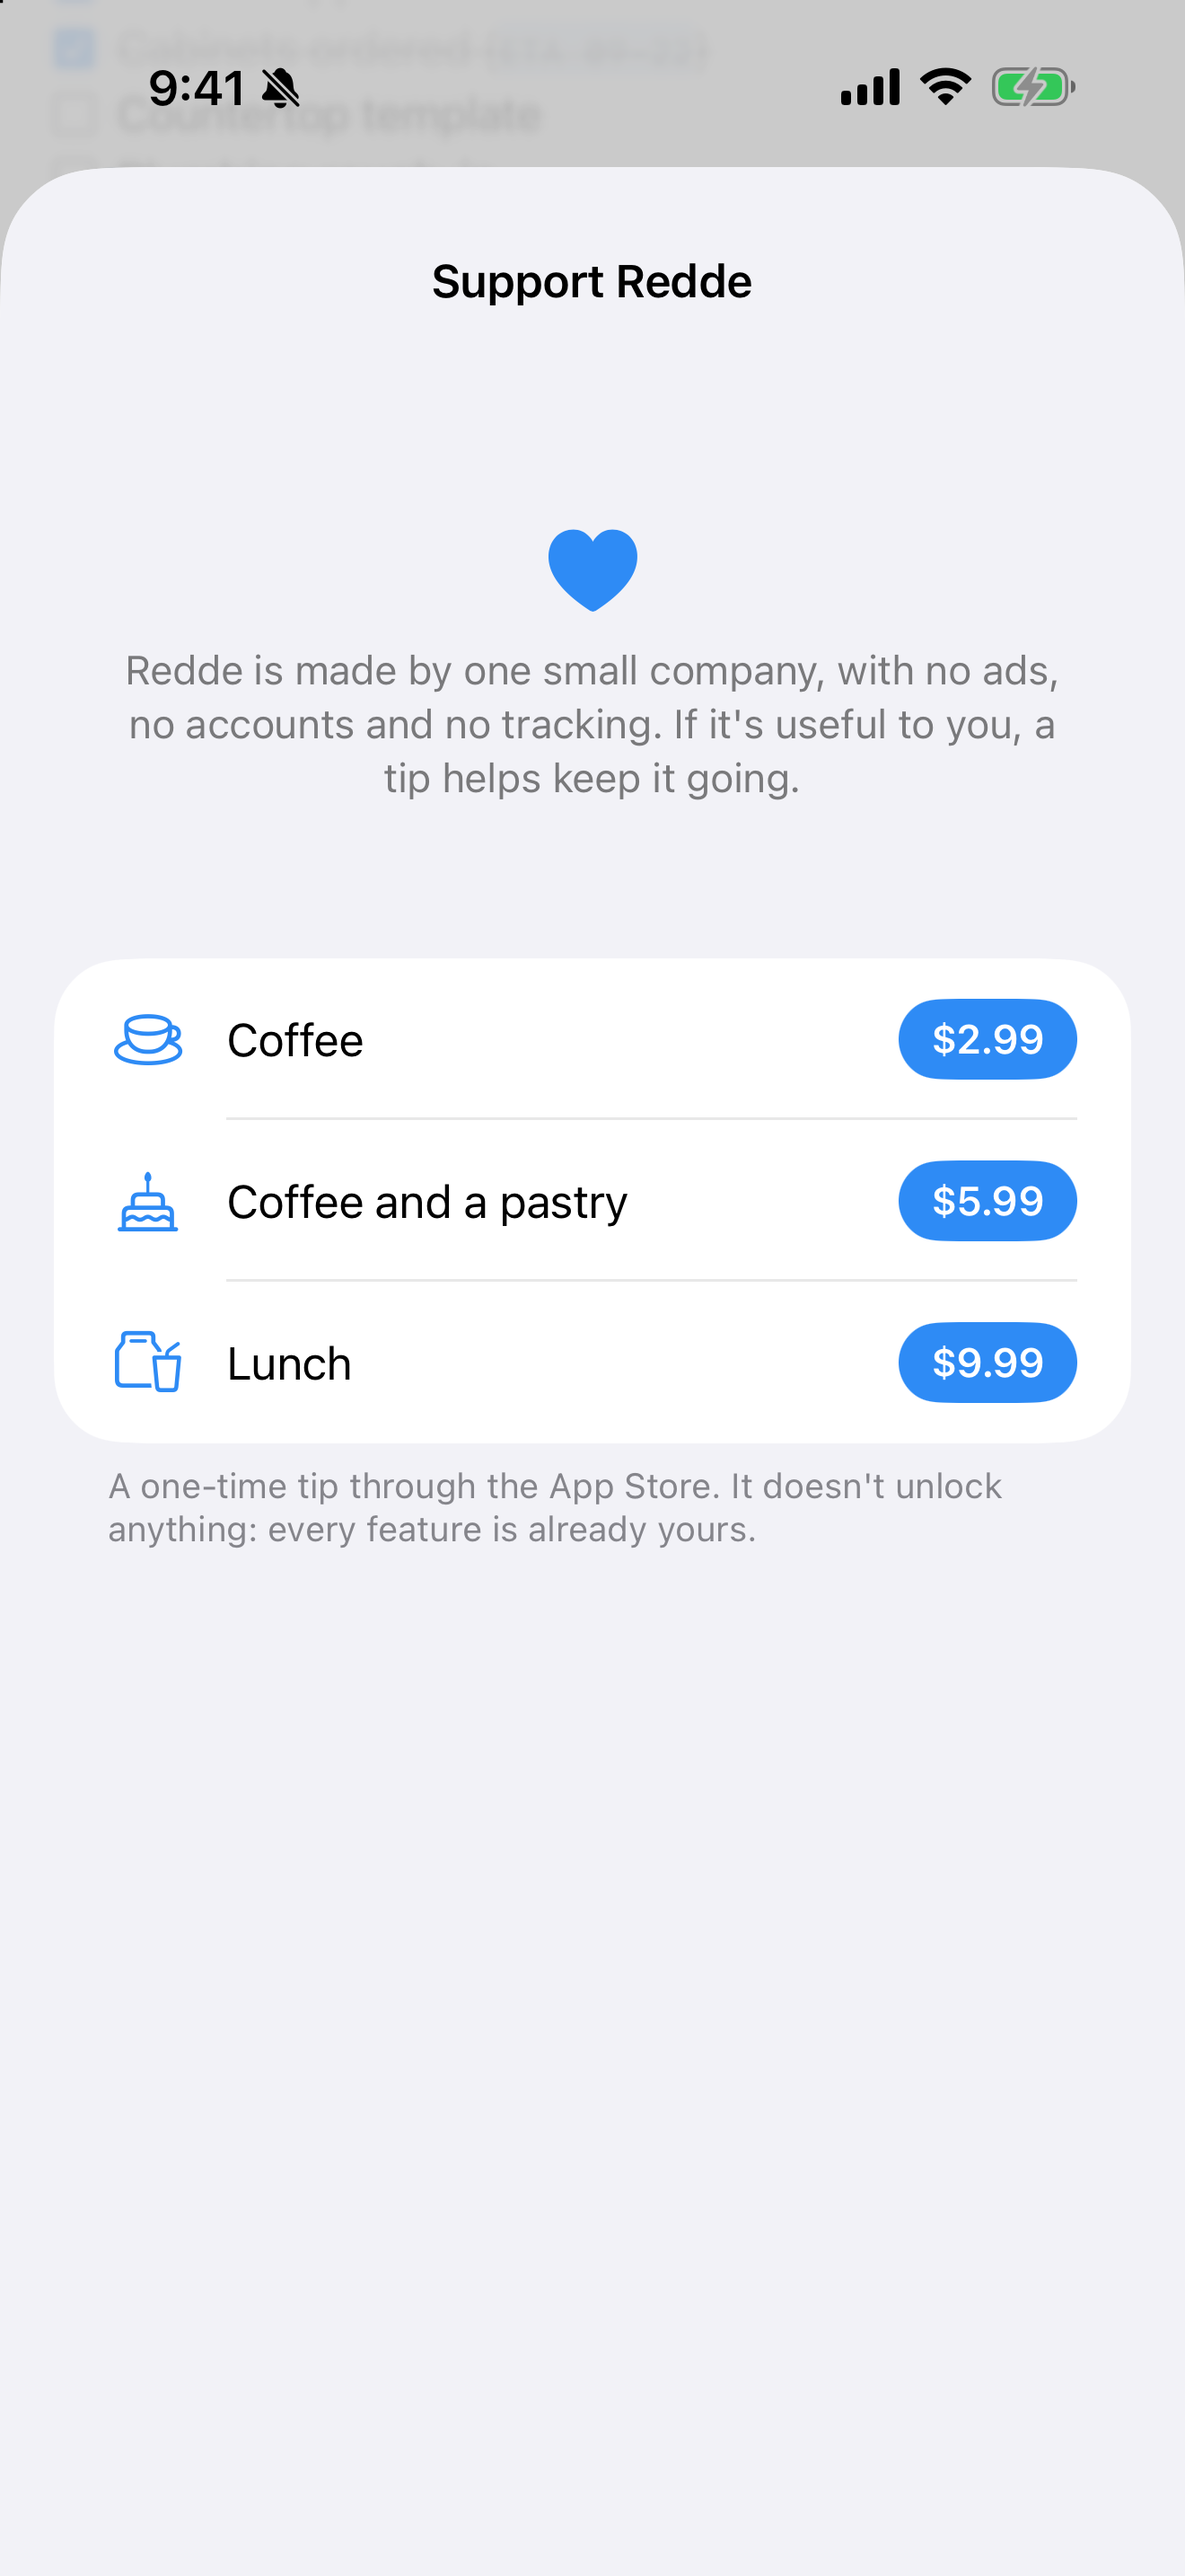
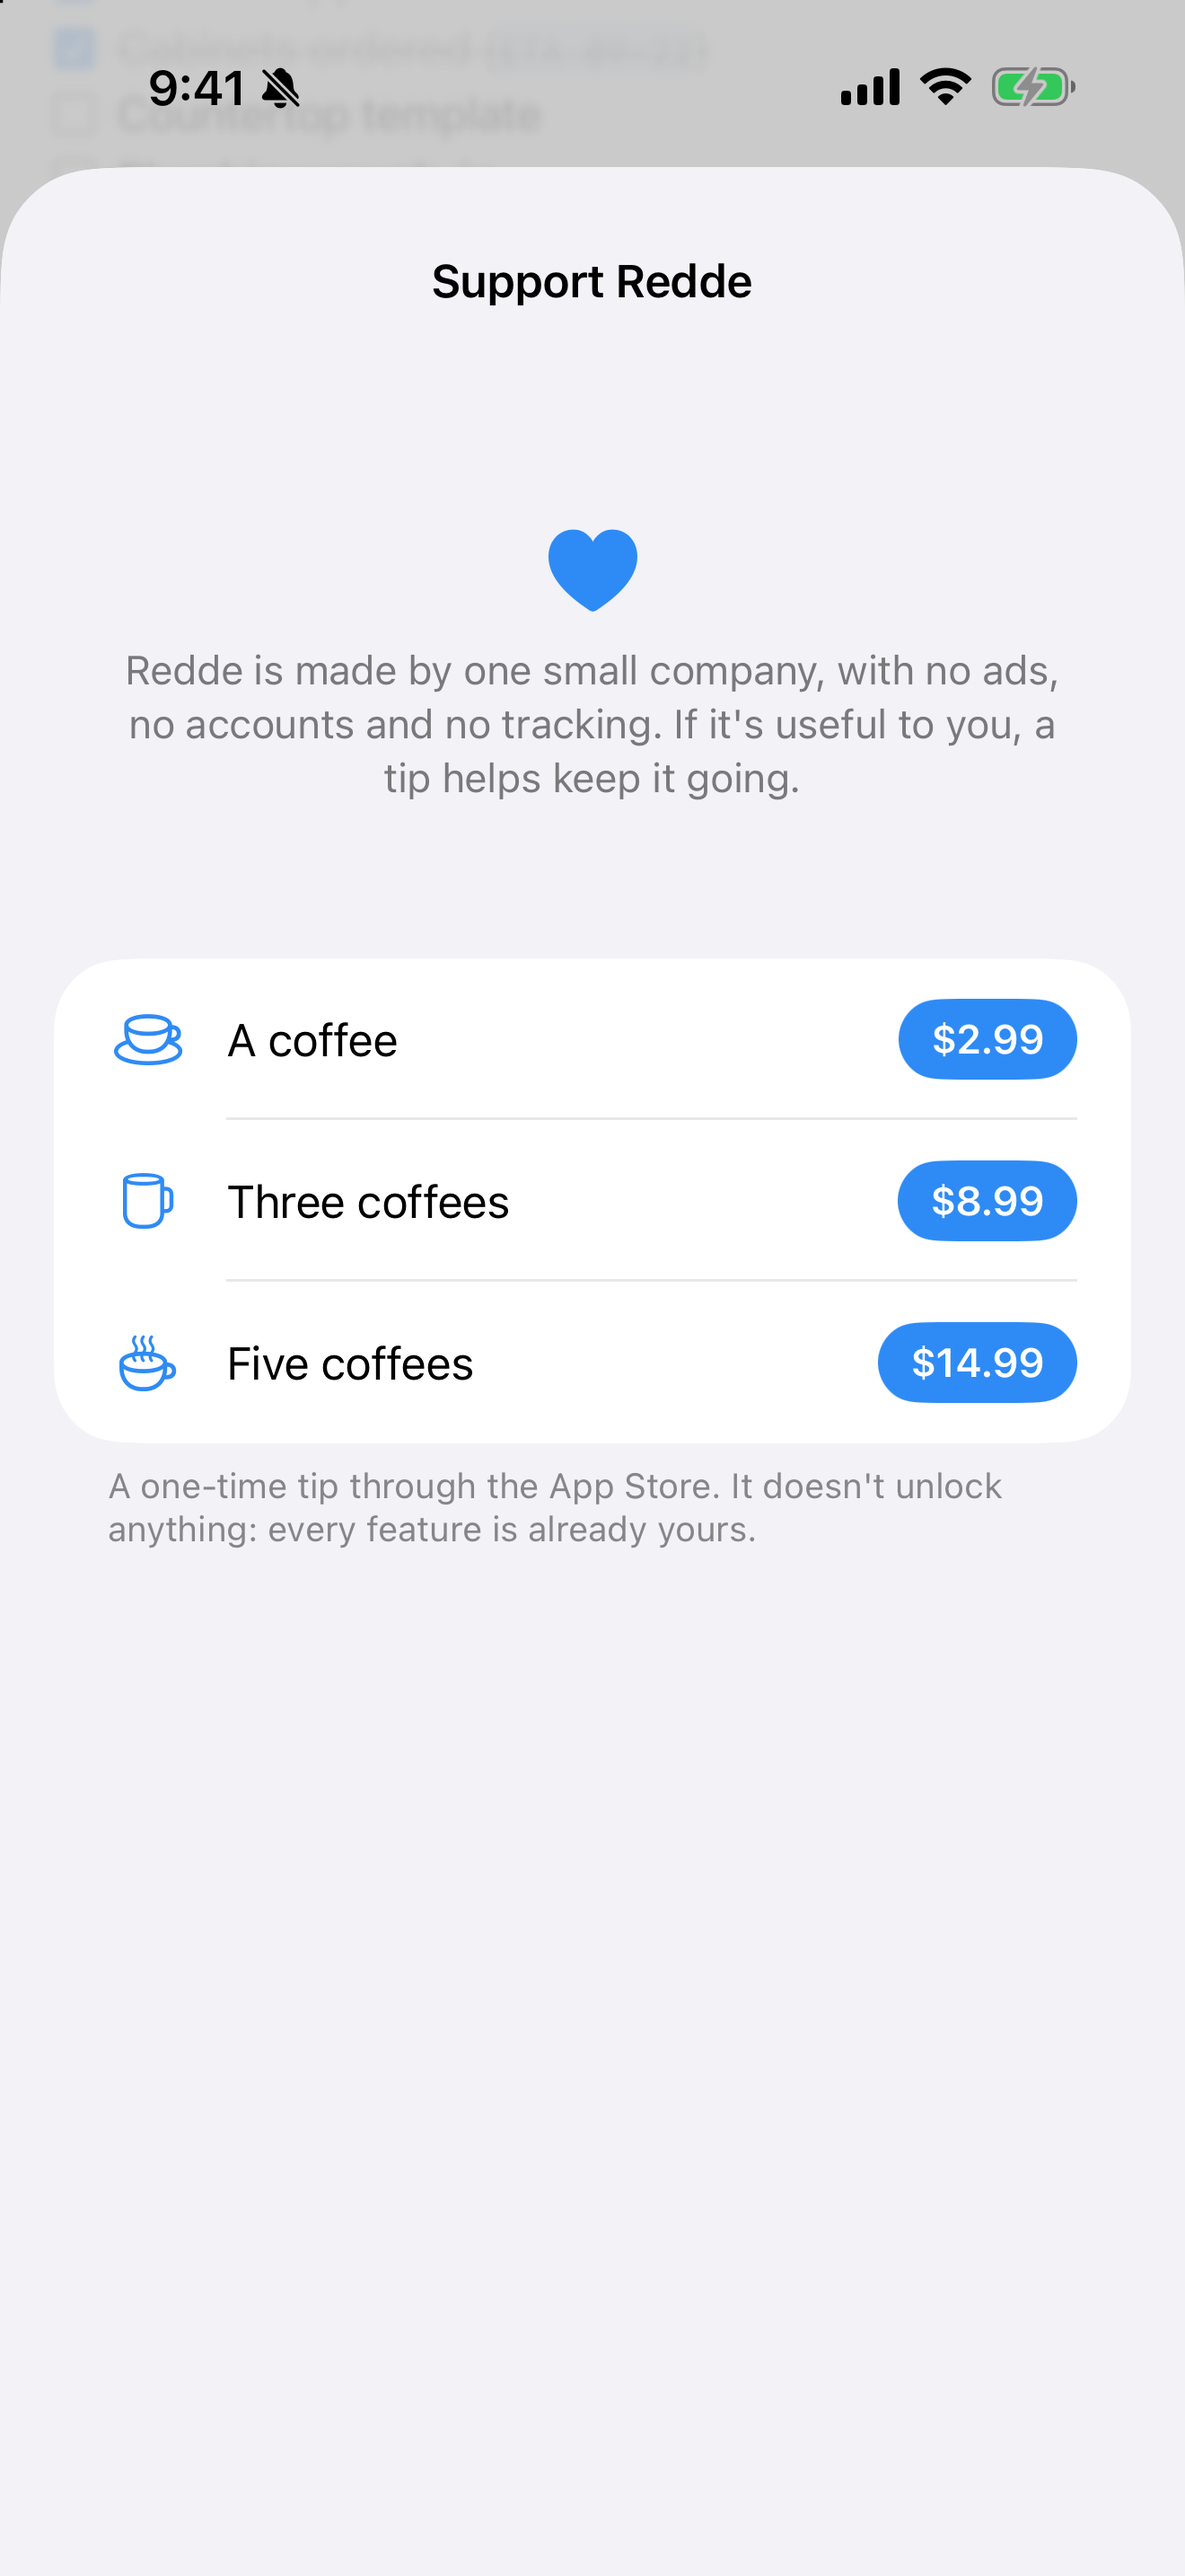
Tip jar: one, three and five coffees ($2.99 / $8.99 / $14.99), like Buy Me a Coffee
Product IDs com.goosehouse.echo.tip.one / .three / .five (not yet in App Store Connect).

diff --git a/Echo/Services/TipJar.swift b/Echo/Services/TipJar.swift
@@ -9,8 +9,9 @@ import os
 final class TipJar {
     static let shared = TipJar()
 
-    /// Smallest first. The IDs match App Store Connect and `Redde.storekit`.
-    static let productIDs = ["com.goosehouse.echo.tip.coffee", "com.goosehouse.echo.tip.pastry", "com.goosehouse.echo.tip.lunch"]
+    /// One, three and five coffees, like buymeacoffee.com/goosehouse. Smallest first; the IDs
+    /// match App Store Connect and `Redde.storekit`.
+    static let productIDs = ["com.goosehouse.echo.tip.one", "com.goosehouse.echo.tip.three", "com.goosehouse.echo.tip.five"]
 
     enum State: Equatable { case loading, ready, unavailable, purchasing(String), thanked }
 
@@ -47,7 +48,7 @@ final class TipJar {
         #if DEBUG
         // Dev hook for the App Review screenshot: sample tips, no StoreKit.
         if DevHooks.has("-echo.demoTips") {
-            options = zip(Self.productIDs, [("Coffee", "$2.99"), ("Coffee and a pastry", "$5.99"), ("Lunch", "$9.99")])
+            options = zip(Self.productIDs, [("A coffee", "$2.99"), ("Three coffees", "$8.99"), ("Five coffees", "$14.99")])
                 .map { Option(id: $0, name: $1.0, price: $1.1) }
             state = .ready
             return
@@ -94,8 +95,8 @@ final class TipJar {
     static func symbol(for id: String) -> String {
         switch id {
         case productIDs[0]: "cup.and.saucer"
-        case productIDs[1]: "birthday.cake"
-        default: "takeoutbag.and.cup.and.straw"
+        case productIDs[1]: "mug"
+        default: "cup.and.heat.waves"
         }
     }
 }
